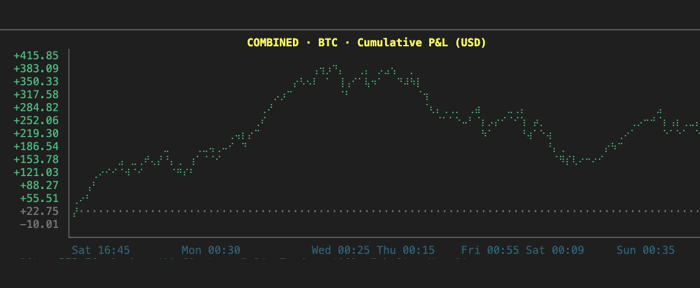
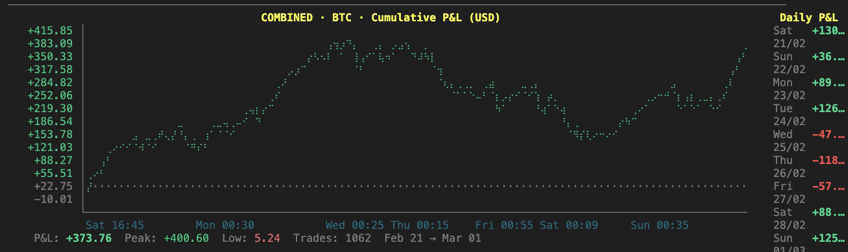
Size each card to its own image
The scalper chart was drawn into a 560px panel, which pushed its right edge
hard against the text column and clipped the tail of the plot. Card images now
declare their own width and height, so the chart gets 780px and reads at nearly
2x the size, with the copy sized to whatever column is left instead of assuming
a fixed one.

Re-cropped the chart too: the old crop stopped at x=714, cutting the last
axis label. Measured the real content bounds off the screenshot (x 8-844,
y 398-641) and cropped to that with a small margin, so the Daily P&L column is
now included whole.

diff --git a/tools/make_assets.py b/tools/make_assets.py
@@ -33,16 +33,20 @@ CARDS = [
         "hook": "Four machines, each generated in Blender from one specification file.",
         "figures": [("MACHINES", "4"), ("AIRFOILS", "2,044"), ("SOURCE", "1 spec file")],
         "asset": "assets/render.jpg",
+        "img_w": 560,
+        "h": 230,
         "fit": "slice",
         "region_bg": "#010102",
     },
     {
         "sheet": "02",
         "name": "POLYMARKET-BTC-SCALPER",
-        "hook": "1,062 trades, 87.75% won — and a stop that filled at 67¢ instead of 80¢.",
+        "hook": "A stop that filled at 67¢ instead of 80¢.",
         "figures": [("TRADES", "1,062"), ("WIN RATE", "87.75%"), ("NET P&L", "+$373.76")],
         "asset": "assets/curve.png",
-        "fit": "slice",
+        "img_w": 780,
+        "h": 232,
+        "fit": "meet",
         "region_bg": "#1F1F1F",
     },
 ]
@@ -96,11 +100,17 @@ def cover():
 # ---------------------------------------------------------------- project card
 
 def card(spec):
-    W, H, IMG_W = 1200, 230, 560
+    W = 1200
+    IMG_W, H = spec["img_w"], spec["h"]
     uri = data_uri(spec["asset"], "image/jpeg" if spec["asset"].endswith(".jpg") else "image/png")
-    x_text = 600
+    x_text = IMG_W + 40
+    available = 1176 - x_text
+    # The two cards carry different image widths, so the copy has to fit
+    # whatever column is left rather than assume a fixed one.
+    name_font = min(25, (available * 0.96) / (len(spec["name"]) * 0.70))
+    hook_font = min(13.5, (available * 0.96) / (len(spec["hook"]) * 0.52))
     figures = spec["figures"]
-    cw = (1176 - x_text) / len(figures)
+    cw = available / len(figures)
 
     cells = ""
     for i, (label, value) in enumerate(figures):
@@ -127,8 +137,8 @@ def card(spec):
   <rect x="{x_text - 12}" y="46" width="3" height="44" fill="{ACCENT}"/>
   <g font-family="{MONO}">
     <text x="{x_text}" y="56" fill="{FAINT}" font-size="9" letter-spacing="1.8">SHEET {spec["sheet"]}</text>
-    <text x="{x_text}" y="90" fill="{INK}" font-size="25" letter-spacing="2.4">{esc(spec["name"])}</text>
-    <text x="{x_text}" y="122" fill="{MUTED}" font-size="13.5">{esc(spec["hook"])}</text>
+    <text x="{x_text}" y="90" fill="{INK}" font-size="{name_font:.1f}" letter-spacing="2.4">{esc(spec["name"])}</text>
+    <text x="{x_text}" y="122" fill="{MUTED}" font-size="{hook_font:.1f}">{esc(spec["hook"])}</text>
     <line x1="{x_text}" y1="156" x2="1176" y2="156" stroke="{LINE}" stroke-width="1"/>
 {cells}  </g>
 </svg>
